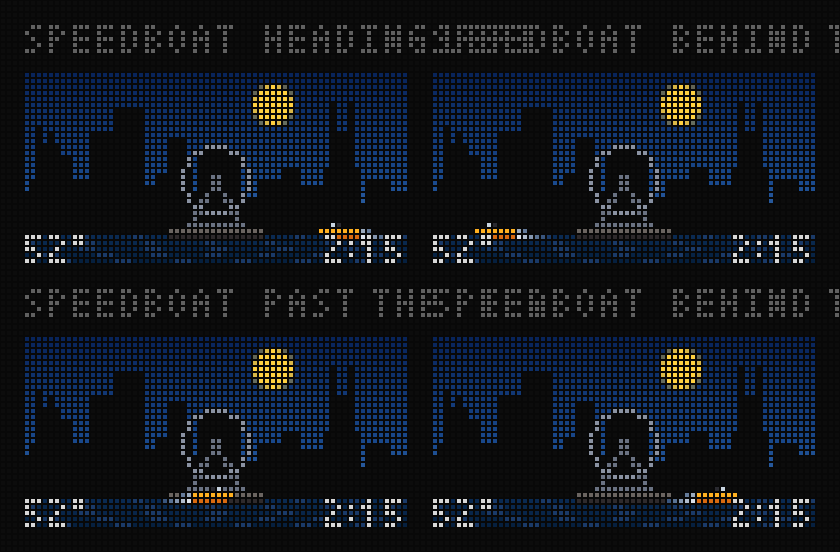
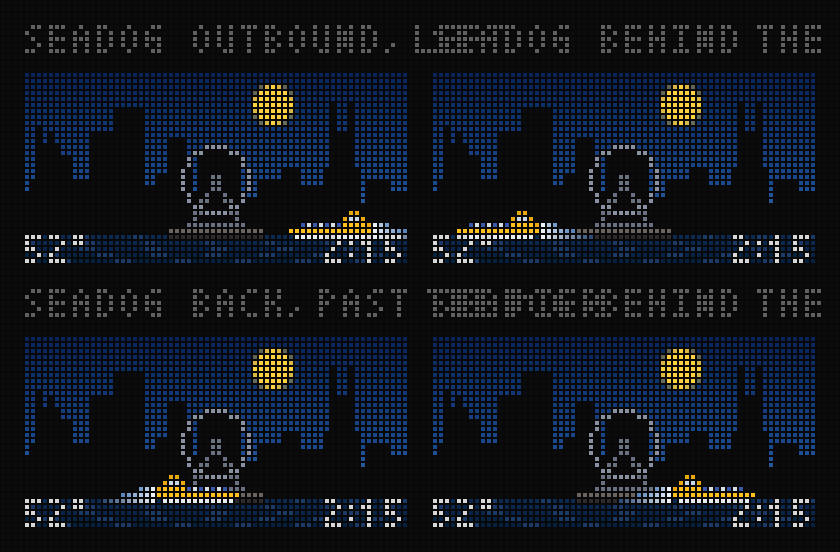
Skyline: Seadog speedboat with turnaround; top-left text mocks
Claude-Session: https://claude.ai/code/session_01G1nRWyBJ5H2pgpEftGbAir

diff --git a/scripts/mock-skyline-topleft.js b/scripts/mock-skyline-topleft.js
@@ -1,0 +1,78 @@
+#!/usr/bin/env node
+'use strict';
+// Skyline clock face: the time and temperature on one line in the top left (`2:15  52°`), in every
+// weather state, to compare with the text over the water.
+//
+//   node scripts/mock-skyline-topleft.js
+//
+// Writes docs/board/mockups/weather/lake/topleft.png (each state, WHITE and AUTO) and topleft-dim.png
+// (the grey and busy skies, WHITE and DIM).
+//   WHITE  lit white text; clouds, stars and rain are cleared from a box around the text, fading
+//          out over 3 px (the old "Lit, top" idea), so the text always sits on plain sky.
+//   AUTO   the same cleared box, and the text turns unlit (black) where the sky behind it is
+//          bright (average luma above 120), as the old Auto mode did.
+//   DIM    the same cleared box, and where the sky there is brighter than luma 60 it is dimmed
+//          toward that (fading with the box), so white text keeps its contrast on grey skies.
+// The widest line (`12:59  100°`, 35 px) ends at x 34: clear of the sun and moon (x 38-44) and of
+// every rooftop (St. Regis, the tallest, tops out on row 6; the text is rows 1-5).
+
+const fs = require('fs');
+const path = require('path');
+const { Frame } = require('../server/board/raster');
+const { measure } = require('../server/board/fonts');
+const L = require('./mock-weather-lake');
+const { W, H, mix, rgb } = L;
+
+const OUT = path.join(__dirname, '..', 'docs', 'board', 'mockups', 'weather', 'lake');
+const GAP = 4;                                        // px between the time and the temperature
+const lum = (c) => 0.2126 * c[0] + 0.7152 * c[1] + 0.0722 * c[2];
+
+// Box to clear: the text's ink (rows 1-5, x 0..w-1) plus 1 px, fading over 3 px beyond that.
+function clearWeight(x, y, w) {
+  const dx = Math.max(0, x - w), dy = Math.max(0, y - 6);
+  const d = Math.max(dx, dy);
+  return d === 0 ? 1 : d >= 4 ? 0 : 1 - d / 4;
+}
+
+function frameFor(key, mode, clock, temp) {
+  const st = L.STATES.find((s) => s[0] === key)[2];
+  const base = { ...st, temp: '', clock: '' };
+  const full = new Frame(); L.scene(full, base);
+  // Plain sky behind the text: same scene without clouds, wisps, stars or rain.
+  const plain = new Frame(); L.scene(plain, { ...base, clouds: undefined, stars: 0, after: undefined, mid: key === 'partly-cloudy-night' ? undefined : base.mid });
+  const w = measure('small', clock) + GAP + measure('small', temp);
+  const f = new Frame();
+  let sum = 0, n = 0;
+  for (let y = 0; y < H; y++) for (let x = 0; x < W; x++) {
+    const k = clearWeight(x, y, w);
+    let c = k ? rgb(mix(L.hex(full.get(x, y)), L.hex(plain.get(x, y)), k)) : full.get(x, y);
+    if (mode === 'dim' && k && L.getRole()[y][x] === null) { const l = lum(c); if (l > 60) { const m = 1 - k * (1 - 60 / l); c = c.map((v) => v * m); } }
+    f.set(x, y, c);
+    if (y >= 1 && y <= 5 && x < w) { sum += lum(c); n++; }
+  }
+  const ink = mode === 'auto' && sum / n > 120 ? '#000000' : '#d8d8d8';
+  f.text('small', clock, 0, 6, ink);
+  f.text('small', temp, measure('small', clock) + GAP, 6, ink);
+  return f;
+}
+
+function main() {
+  Object.assign(L.OPT, { text: 'bottom', clock: true, reflect: false });   // full-height antennas, stars anywhere
+  L.setTick(0);
+  L.buildSkyline();
+  const cells = [];
+  for (const [key, title, st] of L.STATES) {
+    cells.push([`${title}  WHITE`, frameFor(key, 'white', st.clock, st.temp)]);
+    cells.push([`${title}  AUTO`, frameFor(key, 'auto', st.clock, st.temp)]);
+  }
+  fs.writeFileSync(path.join(OUT, 'topleft.png'), L.sheet(cells.concat([['WIDEST  WHITE', frameFor('clear-night', 'white', '12:59', '100°')], ['WIDEST  AUTO', frameFor('clear-day', 'auto', '12:59', '-12°')]]), 2, 6));
+  const dim = [];
+  for (const key of ['overcast', 'snow', 'fog', 'rain', 'mostly-cloudy', 'sunset']) {
+    const [, title, st] = L.STATES.find((s) => s[0] === key);
+    dim.push([`${title}  WHITE`, frameFor(key, 'white', st.clock, st.temp)], [`${title}  DIM`, frameFor(key, 'dim', st.clock, st.temp)]);
+  }
+  fs.writeFileSync(path.join(OUT, 'topleft-dim.png'), L.sheet(dim, 2, 6));
+  console.log('wrote topleft.png, topleft-dim.png to', path.relative(process.cwd(), OUT));
+}
+if (require.main === module) main();
+module.exports = { frameFor };

diff --git a/scripts/mock-skyline-dusk.js b/scripts/mock-skyline-dusk.js
@@ -113,19 +113,25 @@ function boat(f, x0, dir, hull = HULLS.brown) {
   for (let dx = 1; dx < 5; dx++) put(dx, 27, hull[1]);
 }
 
-// Speedboat (yellow-orange): a low hull with a raked bow on rows 26-27, a windshield and seat on
-// row 25, and white wake trailing behind it on the water (fading over 5 px). Leading edge at x0.
-const SPEED = [
-  ['...ww...', '#c8d4e0'],     // row 25: windshield (light) and the driver
-  ['.YYYYYYY', '#ffb020'],     // row 26: deck, bow raked
-  ['..OOOOOO', '#d86a10'],     // row 27: hull side
+// Speedboat, loosely the Seadog: a long low yellow hull (14 px) with a white bottom stripe, blue
+// passenger rows along the deck, a raised helm with a windshield toward the stern, and a white spray
+// plume trailing behind. Rows 23-27; leading edge (the bow) at x0. It crosses fast, turns around
+// off-panel and comes back the other way a few seconds later.
+const SEADOG = [
+  '..........yy..',    // 23: top of the helm
+  '.........ywwy.',    // 24: windshield
+  '..pqpqpqpYYYYy',    // 25: passengers, helm
+  'YYYYYYYYYYYYYY',    // 26: deck (bow at dx 0)
+  '.WWWWWWWWWWWW.',    // 27: white bottom
 ];
+const SEADOG_C = { y: '#e8a810', Y: '#ffc020', w: '#c8d8e8', p: '#3a5aa8', q: '#d8dce4', W: '#e8ecf0' };
 function speedboat(f, x0, dir) {
-  const put = (dx, y, c) => { const x = dir < 0 ? x0 + dx : x0 + 7 - dx; if (x >= 0 && x < W) f.fill(x, y, 1, 1, c); };
-  put(4, 25, '#2a2a30');                                           // driver
-  SPEED.forEach(([row, c], dy) => [...row].forEach((ch, dx) => { if (ch !== '.' && !(dy === 0 && dx === 4)) put(dx, 25 + dy, c); }));
-  [0.9, 0.7, 0.5, 0.3, 0.15].forEach((k, i) => put(8 + i, 27, mix('#1a3a68', '#f0f4f8', k)));   // wake on the water row
-  [0.6, 0.35].forEach((k, i) => put(8 + i, 26, mix('#1a3a68', '#f0f4f8', k)));                   // spray just behind the stern
+  const n = SEADOG[0].length;
+  const put = (dx, y, c) => { const x = dir < 0 ? x0 + dx : x0 + n - 1 - dx; if (x >= 0 && x < W) f.fill(x, y, 1, 1, c); };
+  SEADOG.forEach((row, dy) => [...row].forEach((ch, dx) => { if (ch !== '.') put(dx, 23 + dy, SEADOG_C[ch]); }));
+  // Spray plume behind the stern: longest on the water row, shorter above, fading out.
+  const plume = [[27, 9], [26, 6], [25, 3]];
+  for (const [y, len] of plume) for (let i = 0; i < len; i++) put(n + i, y, mix(y === 27 ? '#1a3a68' : '#3a6eb0', '#f4f8fc', 0.95 * (1 - i / len)));
 }
 
 if (require.main === module) {
@@ -147,7 +153,7 @@ if (require.main === module) {
   }
   fs.writeFileSync(path.join(OUT, 'boat.png'), L.sheet(cells, 2, 6));
   const sp = [];
-  for (const [x0, dir, t] of [[48, -1, 'SPEEDBOAT  HEADING LEFT'], [6, -1, 'SPEEDBOAT  BEHIND THE TEMP'], [28, 1, 'SPEEDBOAT  PAST THE PIER'], [44, 1, 'SPEEDBOAT  BEHIND THE CLOCK']]) {
+  for (const [x0, dir, t] of [[44, -1, 'SEADOG  OUTBOUND, LEFT'], [4, -1, 'SEADOG  BEHIND THE TEMP'], [22, 1, 'SEADOG  BACK, PAST THE PIER'], [40, 1, 'SEADOG  BEHIND THE CLOCK']]) {
     const d = duskFrame(day, 0);
     speedboat(d.f, x0, dir);
     L.label(d.f, '52°', '2:15');

diff --git a/scripts/mock-weather-lake.js b/scripts/mock-weather-lake.js
@@ -345,7 +345,7 @@ if (require.main === module) {
   console.log(`wrote ${STATES.length} states, sheet.png, options.png, night-motion.png to ${path.relative(process.cwd(), OUT)}`);
 }
 module.exports = {
-  STATES, render, setTick, buildSkyline, OPT, sheet,
+  STATES, render, setTick, buildSkyline, OPT, sheet, scene, lightning,
   // pieces for the other skyline mocks (mock-skyline-dusk.js)
   W, H, SHORE, rgb, hex, mix, ramp, sstep, hash2, paint, disc, stars, wheel, wheelForDay, water, pier, antennas, label,
   getRole: () => role, getAnts: () => ants, isB, SUN, BLUE, NIGHT_SKY, DAY_WATER, NIGHT_WATER, WHEEL_NIGHT, PIER_DAY, PIER_NIGHT, CX, CY, R,

diff --git a/docs/board/design-spec.md b/docs/board/design-spec.md
@@ -573,16 +573,18 @@ Ambient and slow, on a 100 ms tick:
 | Rain | 1 px down per tick, 1 px left every 2 ticks (slanted), 2 px streaks; 12 / 24 / 40 streaks for light / moderate / heavy |
 | Snow | 1 px down every 400 ms, a 1 px sideways step about every 1.2 s per flake; 10 / 20 / 30 flakes |
 | Lightning | a strike every 8–20 s (from the hash), shown 100 ms on, 100 ms off, 100 ms on |
-| Boat (day) | crosses at each quarter hour (below) |
+| Boats (day) | sailboat on :00 and :30, speedboat round trip on :15 and :45 (below) |
 
 - This screen is the exception to Minimal animation (§2): it has no times to protect, apart from the clock, which only changes at the minute.
 - Fetches still go in the scheduler's gaps, and the scene holds still while one runs. How long a fetch stalls the S3's loop needs measuring on hardware.
 
-### Boat
-- A sailboat crosses the lake **at every quarter hour** (:00, :15, :30, :45), by day only. Mockup: [`boat.png`](mockups/weather/lake/boat.png).
-- **Look:** a white sail `#e8ecf0` on rows 22–25 (mast on the leading side), in front of the city; a colored hull on rows 26–27 (6 px deck row, 4 px keel row) so it stands out against the sail and still shows above the text when it passes behind the temperature or clock.
-- **Crossing:** starts off-panel at the quarter hour and moves 1 px every 800 ms (about 56 s edge to edge). Direction alternates by quarter (left on :00 and :30, right on :15 and :45). It passes in front of the pier and wheel and behind the text.
-- **When:** sun above 0°, and no rain, snow, fog or thunderstorm, and 40°F or warmer. The server sends `boats` true or false; the board times the crossing from its own clock.
+### Boats
+A boat crosses the lake **at every quarter hour**, by day only, alternating: the sailboat on :00 and :30, the speedboat on :15 and :45. Mockups: [`boat.png`](mockups/weather/lake/boat.png), [`speedboat.png`](mockups/weather/lake/speedboat.png).
+
+- **Sailboat:** a white sail `#e8ecf0` on rows 22–25 (mast on the leading side), in front of the city; a colored hull on rows 26–27 (6 px deck row, 4 px keel row) so it stands out against the sail and still shows above the text when it passes behind the temperature or clock. Starts off-panel at the quarter hour and moves 1 px every 800 ms (about 56 s edge to edge). Left on :00, right on :30.
+- **Speedboat** (loosely the Seadog tour boat): a 14 px yellow hull `#ffc020` with a white bottom stripe, blue and white passenger rows along the deck, a raised helm with a windshield toward the stern, rows 23–27, and a white spray plume trailing behind (9 / 6 / 3 px on rows 27 / 26 / 25, fading out). Fast: 1 px every 150 ms, about 13 s across including the plume. It runs out left, **turns around off-panel**, waits about 4 s, and comes back heading right; one round trip of about 30 s.
+- Both pass in front of the pier and wheel and behind the text, and are drawn from the board's clock, so no fetch is needed.
+- **When:** sun above 0°, no rain, snow, fog or thunderstorm, and 40°F or warmer. The server sends `boats` true or false.
 
 ### Board requirements (S3)
 - Memory is not a constraint on the S3 (2 MB PSRAM): the cloud strip (1.7 KB), the city layer and the scene buffers can all stay resident.
@@ -594,5 +596,6 @@ Ambient and slow, on a 100 ms tick:
 - On the panel: the near-floor colors above, whether the moon is dim enough, and whether glints read as sparkle or noise.
 - Moon crescents: a plain sliver, earthshine (the unlit part as a faint disc, likely lost to overnight dimming), or a brightened sliver.
 - Sunset sun height: how much of the disc shows above the skyline at the low and high ends of its x range (it crosses different buildings through the year).
-- Hull color: brown (`#8a4a24` / `#5a2e16`) or red (`#c02a20` / `#7a1a14`), both in `boat.png`.
+- Sailboat hull color: brown (`#8a4a24` / `#5a2e16`) or red (`#c02a20` / `#7a1a14`), both in `boat.png`.
+- Text placement: over the water (current) or one line in the top left (`topleft.png`, `topleft-dim.png`).
 - Mocks: `mock-skyline-dusk.js` (sky, lights, boat) is current; `mock-weather-lake.js` still draws the weather states with the text at the top and has no glints or cloud strip. `draw.js` takes over as the reference once built.
